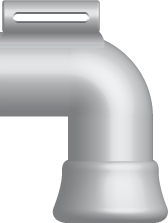
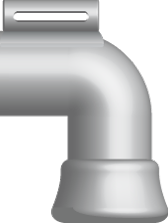
new faucet_spout.png, to match color of faucet_pipe.png

diff --git a/js/concentration/view/FaucetNode.js b/js/concentration/view/FaucetNode.js
@@ -34,7 +34,7 @@ define( function( require ) {
   // constants
   var DEBUG_ORIGIN = false;
   var SPOUT_OUTPUT_CENTER_X = 112; // center of spout, determined by inspecting image file
-  var PIPE_Y_OFFSET = 32; // y-offset of pipe in spout image
+  var PIPE_Y_OFFSET = 31; // y-offset of pipe in spout image
   var SHOOTER_MIN_X_OFFSET = 4; // x-offset of shooter's off position in spout image
   var SHOOTER_MAX_X_OFFSET = 66; // x-offset of shooter's full-on position in spout image
   var SHOOTER_Y_OFFSET = 16; // y-offset of shooter's centerY in spout image
